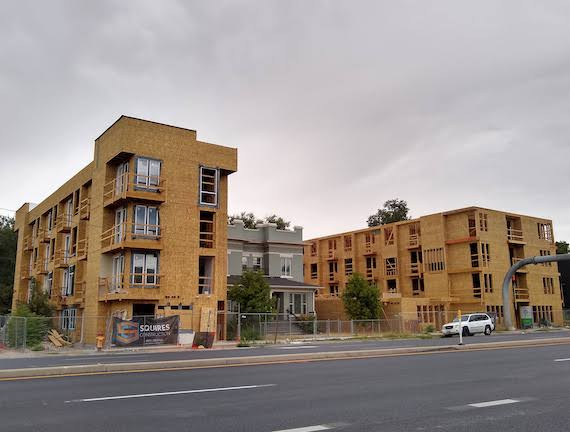
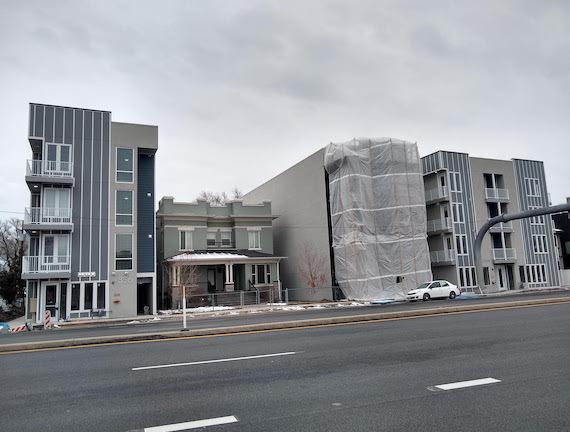
updated pic and tagline of GP West Temple

diff --git a/index.html b/index.html
@@ -141,7 +141,7 @@
 				<div class="w-full pb-30 px-35 radius10 noradius_top block">
 					<a href="#" class="mt-25 mb-10 f-22 link color-main">West Temple</a>
 					<div class="color-heading text-adaptive">
-						GREENPRINT West Temple is an expansion of the concept initiated by GREENPRINT @ the Trax with three buildings and 145 total micro units. Also conveniently located near a TRAX station, GREENPRINT West Temple will have a staged market entry beginning in Q1 2020.
+						GREENPRINT West Temple is an expansion of the concept initiated by GREENPRINT @ the Trax with three buildings and 145 total micro units. Also conveniently located near a TRAX station, GREENPRINT West Temple began leasing the first completed building in February 2020.
 					</div>
 					<div class="mt-15 f-14 semibold text-uppercase sp-20 action-2 tags">
 					</div>
